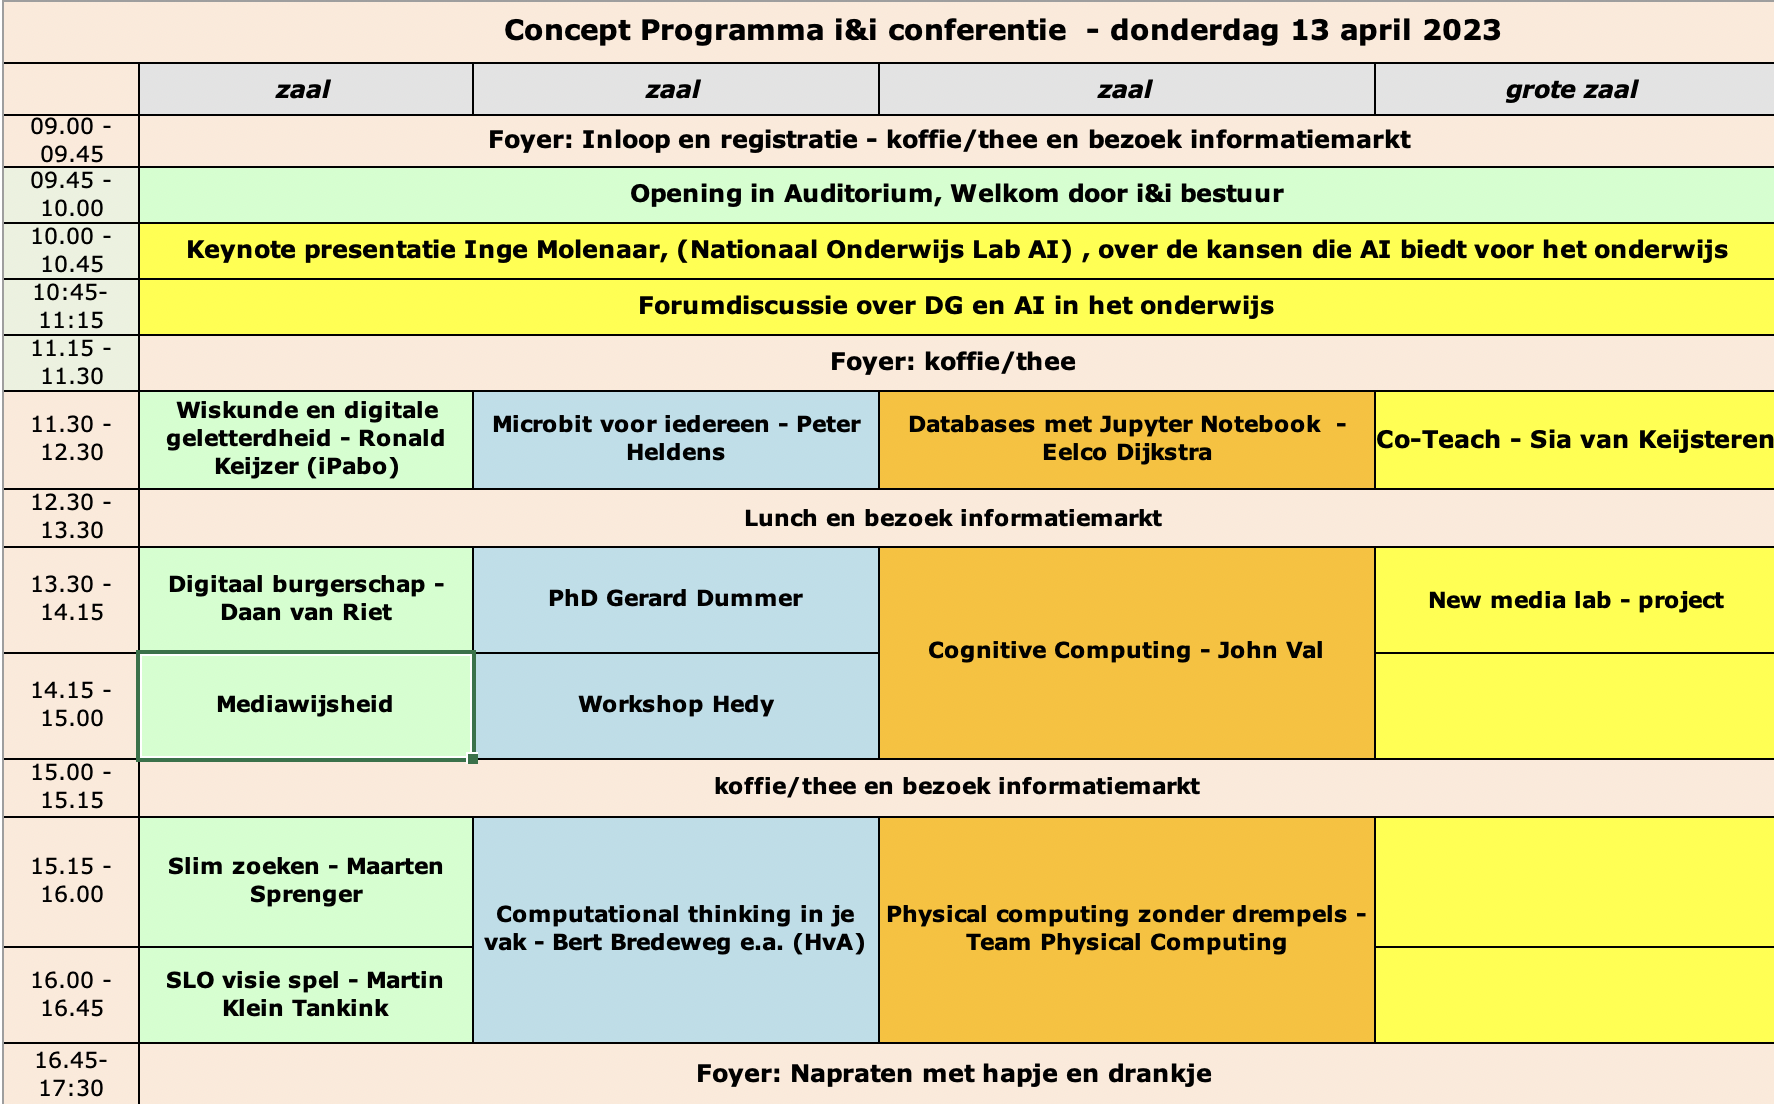
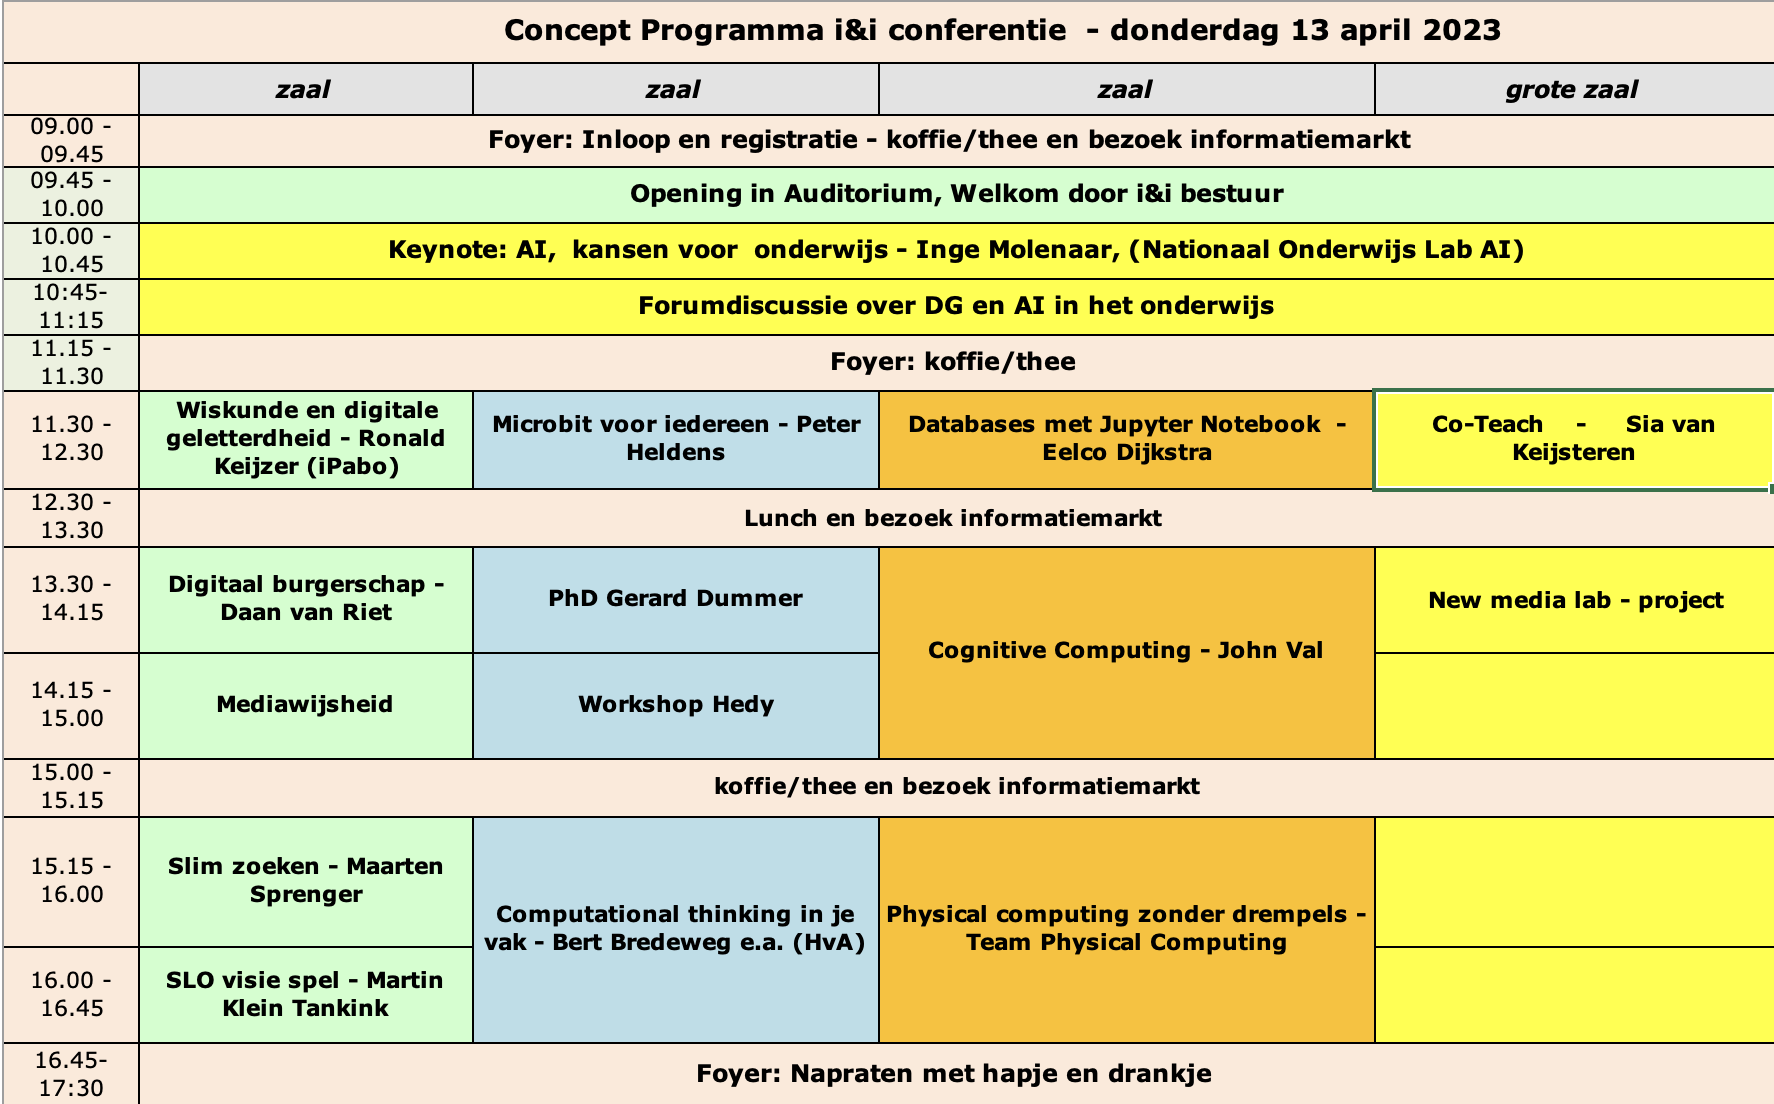
keynote-samenvatting

Changed region(s): [[0.7751, 0.3388, 1.0, 0.462], [0.093, 0.2156, 0.9921, 0.2464], [0.062, 0.5851, 0.279, 0.7083]]

diff --git a/_includes/sidebar.html b/_includes/sidebar.html
@@ -22,8 +22,8 @@
     {% comment %}
     <a class="sidebar-nav-item{% if page.title == "Nieuws" %} active{% endif %}" href="{{ site.baseurl }}/nieuws.html">Nieuws</a>
     {% endcomment %}
- {% comment %}   
-    <span class="sidebar-nav-item">Sessies:</span>
+ 
+    <span class="sidebar-nav-item">Algemeen:</span>
     {% assign algemeen_list = site.algemeen %}
     {% for node in algemeen_list %}
       {% if node.title != null %}
@@ -37,7 +37,7 @@
         {% endif %}
       {% endif %}
     {% endfor %}
-{% endcomment %}   
+
 
     <span class="sidebar-nav-item">Digitale geletterdheid:</span>
     {% assign dg_list = site.dg %}

diff --git a/_algemeen/ai-molenaar.md b/_algemeen/ai-molenaar.md
@@ -1,0 +1,43 @@
+---
+layout: algemeen
+title: AI - kansen voor onderwijs
+---
+
+*Kunstmatige intelligentie in het onderwijs: kansen en risico’s* 
+
+**Inge Molenaar** [(Nationaal Onderwijslab AI)](https://www.ru.nl/nolai){:target="_blank"}
+
+Er zijn veel scenario's waarin kunstmatige intelligentie (AI) het leren van
+leerlingen en het lesgeven van leraren kan verbeteren. In deze lezing maak je
+kennis met hybride intelligentie. Technologie kan dingen die mensen niet
+kunnen, andersom geldt net zo goed. Leraren kunnen heel veel wat technologie
+niet kan. De kunst is het vinden van de ideale samenwerking.  Binnen NOLAI
+onderscheiden we hierin zes niveaus: van onderwijs geheel door leraar verzorgd
+tot geheel geautomatiseerd onderwijs. AI heeft daarbij drie kernfuncties in
+onderwijs: detecteren van informatie, interpreteren van informatie en/of
+handelen op basis van informatie. Verschillende voorbeelden uit de praktijk
+geven een beeld van de toekomst van AI in onderwijs. Inspiratie gegarandeerd!
+We gaan tot slot graag het gesprek met je aan. Welke kansen en uitdagingen zie
+jij voor het onderwijs in Nederland? En wat zou dat kunnen betekenen voor
+vernieuwing van jouw school?  In gesprek ontdekken we het stap voor stap
+samen.
+
+**Over Inge Molenaar**
+
+Inge Molenaar is directeur van NOLAI (Nationaal Onderwijslab AI) en
+universitair hoofddocent Onderwijskunde onderwijswetenschappen bij het
+Behavioural Science Institute van de Radboud Universiteit in Nederland waar ze
+leiding geeft aan het Adaptive Learning Lab. Hoe kunnen we het leren van
+leerlingen en het lesgeven van leraren verbeteren? Van ondernemer tot
+academicus: Inge houdt zich al meer dan 20 jaar bezig met leren ondersteund
+door technologie. NOLAI focust op data, learning analytics en kunstmatige
+intelligentie in het basis- en voortgezet onderwijs. Welke technologie helpt
+leraren het onderwijs te verbeteren? Wat helpt leerlingen bij de gewenste
+ontwikkeling? Kunstmatige intelligentie biedt een krachtige manier om stappen
+te maken in het meten, begrijpen en ontwerpen van innovatief onderwijs. Inge:
+*“De samenwerking tussen scholen, onderzoek en bedrijven is essentieel om de
+volgende generatie onderwijssystemen te ontwikkelen. De komende 10 jaar
+ontwikkelen we vanuit NOLAI inzichten én prototypes met en voor scholen in
+heel Nederland”*. Dr. Molenaar heeft masters in Cognitieve Psychologie en
+International Business Studies (Universiteit van Maastricht) en is
+gepromoveerd in Pedagogische Wetenschappen (Universiteit van Amsterdam).
